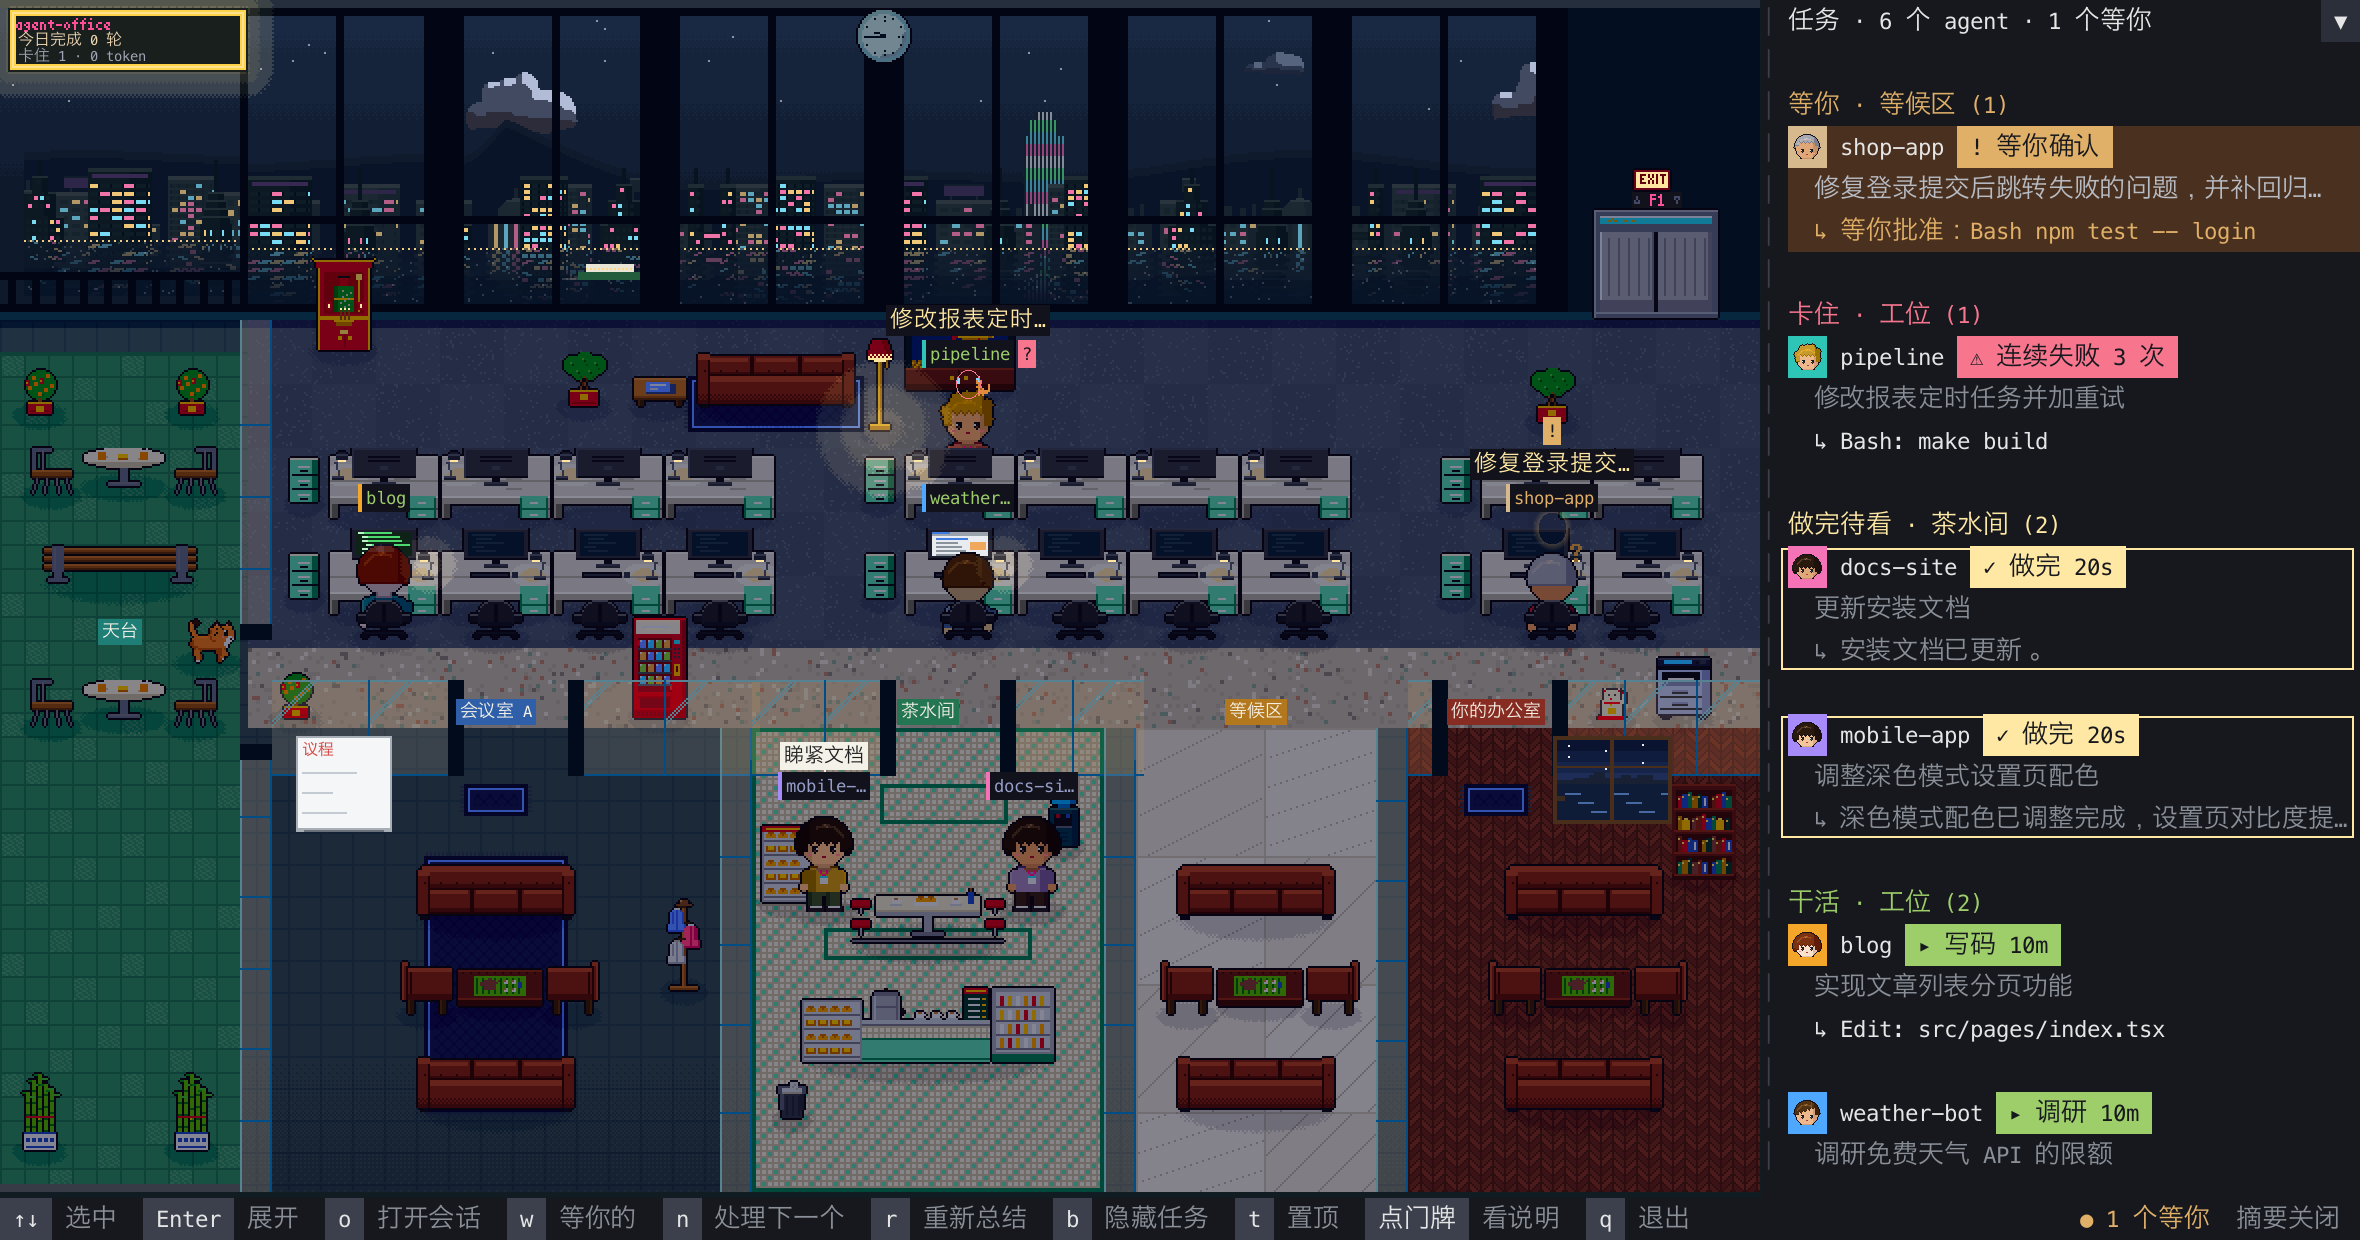
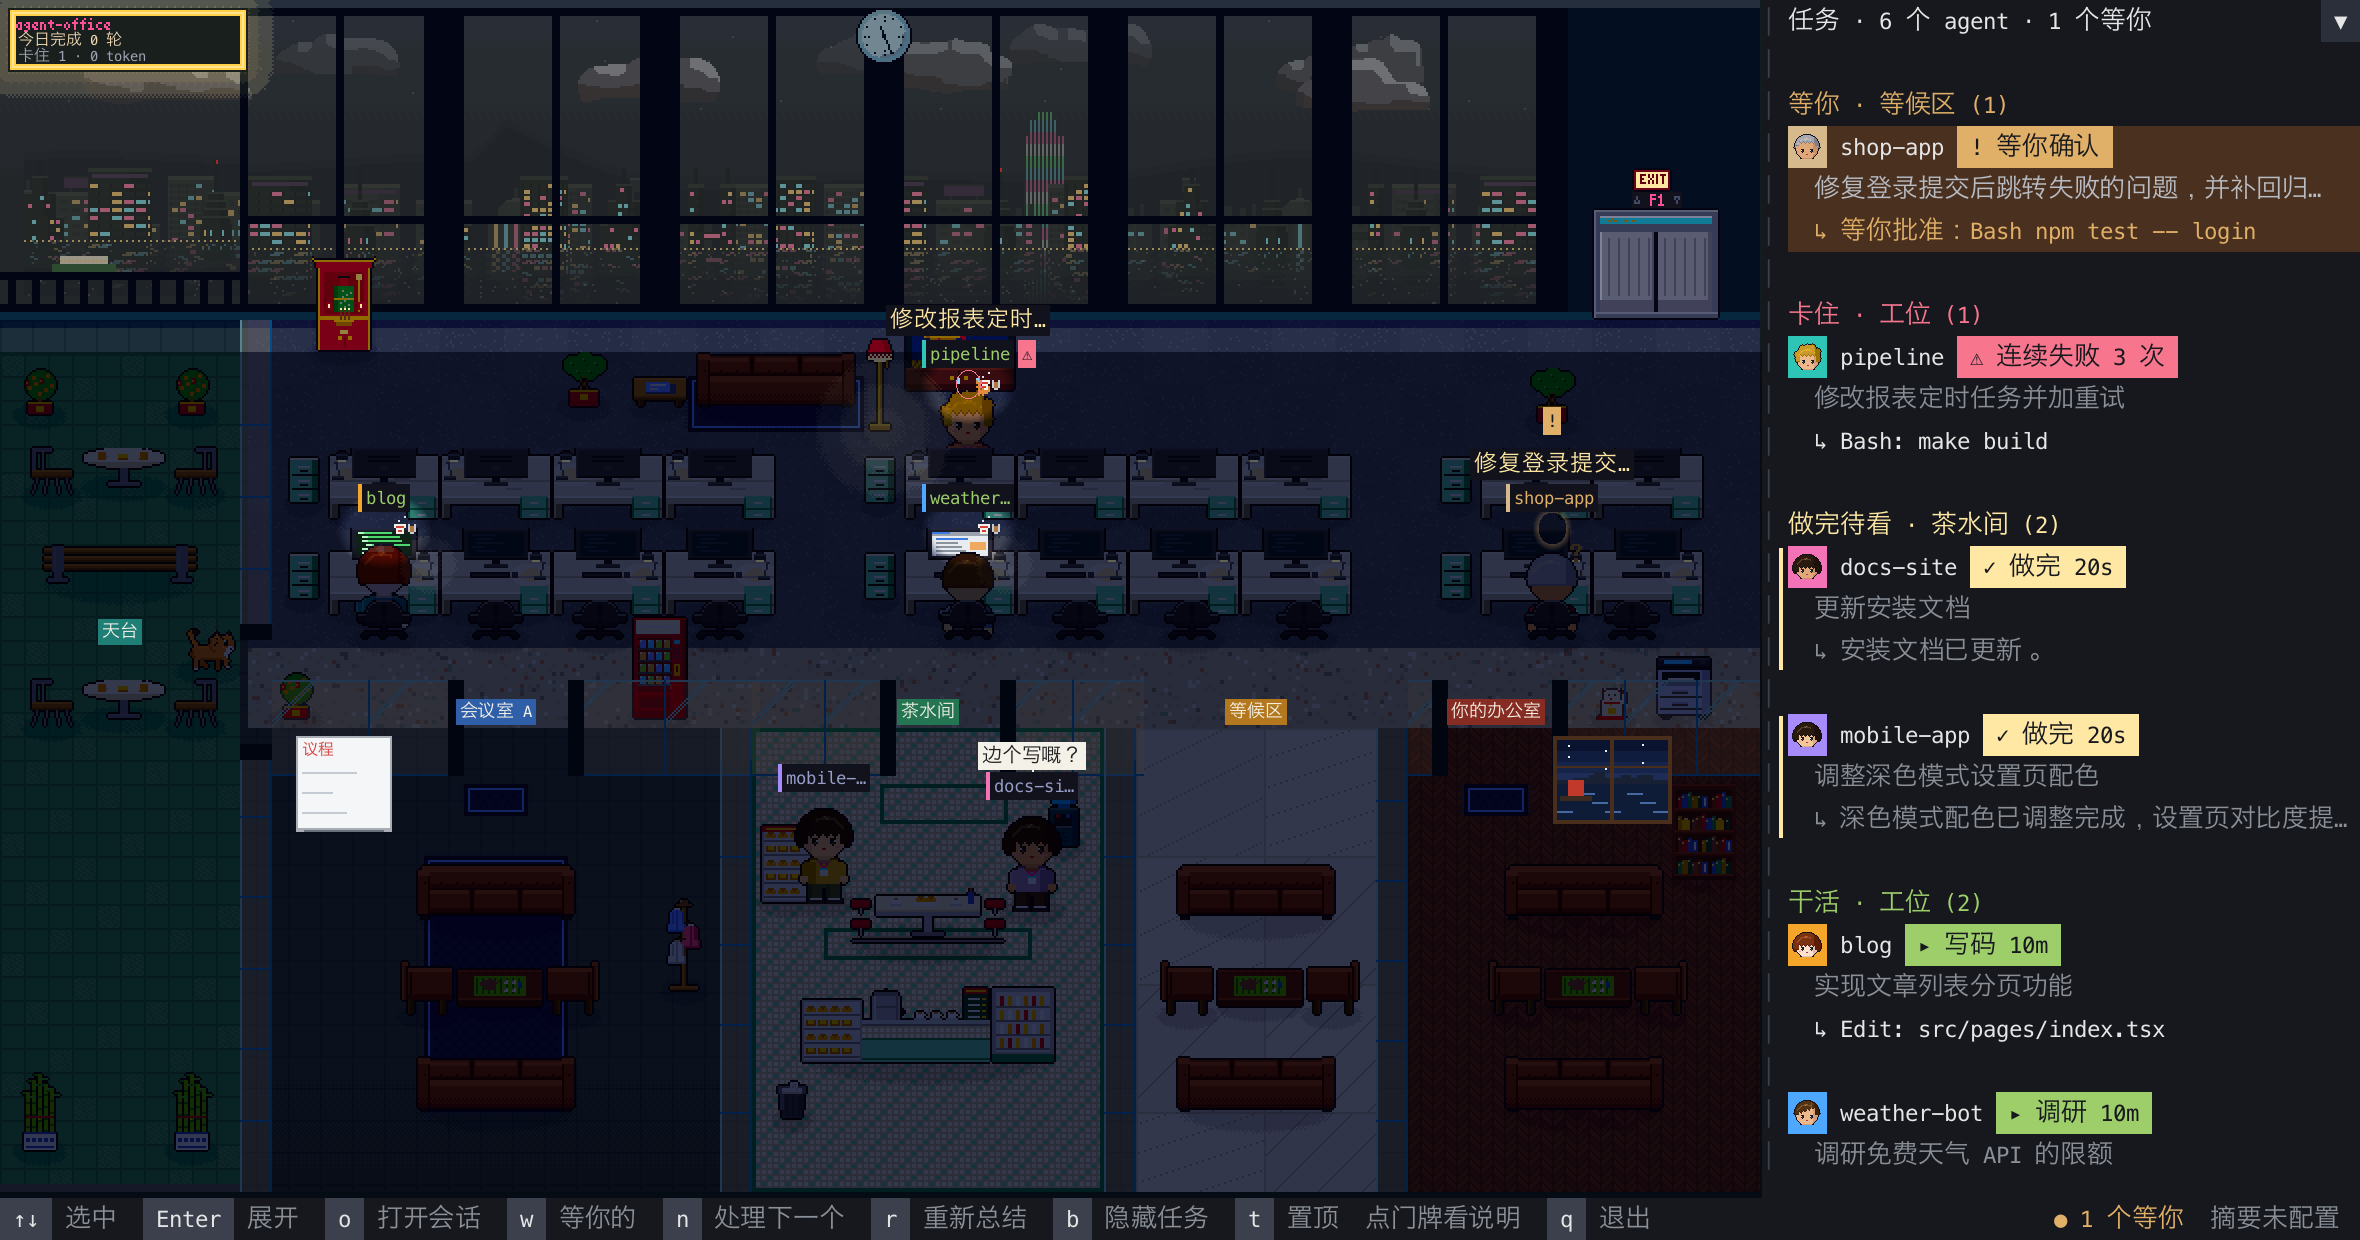
feat: one stuck mark, a side bar for unread done cards, plain words for pointer hints
- office marks a stuck agent with the panel's ⚠, not a ? that read as waiting
- unread done cards get a bar on the left instead of a box that read as selected
- footer: 点门牌看说明 is no longer on a keycap; 摘要关闭 → 摘要未配置
- README screenshot retaken from demo sessions

diff --git a/src/floating/mod.rs b/src/floating/mod.rs
@@ -762,7 +762,7 @@ impl Win {
         );
         canvas.fill(i64::from(panel_x), 0, w.get() - panel_x, h.get(), PANEL_BG);
         paint_cells(&mut canvas, &mut self.faces, &cells, (panel_x, 0), g);
-        paint_outlines(&mut canvas, &drawn.outlines, (panel_x, cols), g, sf);
+        paint_done_bars(&mut canvas, &drawn.outlines, panel_x, g, sf);
         let at = Instant::now();
         self.portraits.retain(|id, (_, made)| {
             at.duration_since(*made) < PORTRAIT_FOR && frame.scene.agents.contains_key(id)
@@ -800,7 +800,7 @@ impl Win {
                         "置顶"
                     },
                 ),
-                ("点门牌", "看说明"),
+                ("", "点门牌看说明"),
             ],
         );
         canvas.fill(0, i64::from(oh), w.get(), h.get() - oh, PANEL_BG);
@@ -1430,32 +1430,22 @@ fn paint_cells(
     }
 }
 
-/// Ink of the outline round a card done and waiting to be read: the panel's
-/// colour for that group.
-const DONE_OUTLINE: u32 = 0x00ff_e8a3;
+/// Ink of the bar by a card done and waiting to be read: the panel's colour
+/// for that group.
+const DONE_BAR: u32 = 0x00ff_e8a3;
 
-/// An outline round each card in `outlines` (its first and last panel rows),
-/// across the panel of `cols` cells at `panel_x`.
-fn paint_outlines(
-    canvas: &mut Canvas,
-    outlines: &[(u16, u16)],
-    (panel_x, cols): (u32, u16),
-    g: Grid,
-    sf: f64,
-) {
+/// A bar down the left of each card in `outlines` (its first and last panel
+/// rows), in the gap between the panel's edge and its text. A box round
+/// each read as the card being selected, and two at once as two selected.
+fn paint_done_bars(canvas: &mut Canvas, outlines: &[(u16, u16)], panel_x: u32, g: Grid, sf: f64) {
     let t = (sf.round() as u32).max(1);
-    // Half a cell in from the panel's text on each side.
-    let x0 = i64::from(panel_x + g.cell_w * 3 / 2);
-    let x1 = i64::from(panel_x + u32::from(cols) * g.cell_w - g.cell_w / 2);
-    let w = u32::try_from(x1 - x0).unwrap_or(0);
+    let w = (2 * t).max(g.cell_w / 3);
+    // Centred in the cell before the text, clear of the panel's border.
+    let x = i64::from(panel_x + g.cell_w + (g.cell_w - w) / 2);
     for &(top, bottom) in outlines {
         let y0 = i64::from(u32::from(top) * g.row_h + t);
         let y1 = i64::from((u32::from(bottom) + 1) * g.row_h - t);
-        let h = u32::try_from(y1 - y0).unwrap_or(0);
-        canvas.fill(x0, y0, w, t, DONE_OUTLINE);
-        canvas.fill(x0, y1 - i64::from(t), w, t, DONE_OUTLINE);
-        canvas.fill(x0, y0, t, h, DONE_OUTLINE);
-        canvas.fill(x1 - i64::from(t), y0, t, h, DONE_OUTLINE);
+        canvas.fill(x, y0, w, u32::try_from(y1 - y0).unwrap_or(0), DONE_BAR);
     }
 }
 
@@ -2067,8 +2057,9 @@ const SIGN_PT: f64 = 9.0;
 const STUCK_RED: u32 = 0x00f7_768e;
 
 /// Mark each stuck agent in `stuck` where it sits: a red ring round its
-/// figure and a red "?" by its badge, so it stands out from the agents
-/// working normally around it. `u` is window pixels an art pixel.
+/// figure and the panel's stuck mark by its badge, so it stands out from the
+/// agents working normally around it. Not a "?": that read as a question for
+/// you, which is what waiting means. `u` is window pixels an art pixel.
 fn paint_stuck(
     canvas: &mut Canvas,
     faces: &mut Faces,
@@ -2096,7 +2087,14 @@ fn paint_stuck(
         let base = y + i64::from(pad) + i64::from(faces.ascent(name_px));
         // Dark on the red, as the panel's stuck chip is: white on it read
         // at 2:1.
-        faces.draw(canvas, x + i64::from(pad), base, "?", PANEL_BG, name_px);
+        faces.draw(
+            canvas,
+            x + i64::from(pad),
+            base,
+            crate::panel::STUCK_MARK,
+            PANEL_BG,
+            name_px,
+        );
     }
 }
 
@@ -2236,6 +2234,41 @@ fn paint_tags(
 #[cfg(test)]
 mod tests {
     use super::*;
+
+    /// A box round each unread done card read as the card being selected,
+    /// two at once as two selected. Its mark is a bar in the gap left of the
+    /// text: nothing across the card, nothing over the panel's border.
+    #[test]
+    fn an_unread_done_card_gets_a_side_bar_not_a_box() {
+        let g = Grid {
+            px: 13,
+            cell_w: 8,
+            row_h: 18,
+        };
+        let panel_x = 100;
+        let mut canvas = Canvas::new(400, 200, 0);
+        paint_done_bars(&mut canvas, &[(2, 4)], panel_x, g, 1.0);
+        let inked: Vec<(u32, u32)> = (0..canvas.h)
+            .flat_map(|y| (0..canvas.w).map(move |x| (x, y)))
+            .filter(|&(x, y)| canvas.px[(y * canvas.w + x) as usize] == DONE_BAR)
+            .collect();
+        assert!(!inked.is_empty(), "the card is marked");
+        let (x0, x1) = (panel_x + g.cell_w, panel_x + 2 * g.cell_w);
+        assert!(
+            inked.iter().all(|&(x, _)| (x0..x1).contains(&x)),
+            "only in the cell before the text"
+        );
+        let (top, bottom) = (2 * g.row_h, 5 * g.row_h);
+        assert!(inked.iter().all(|&(_, y)| (top..bottom).contains(&y)));
+        assert!(
+            inked.iter().any(|&(_, y)| y < top + g.row_h),
+            "from its first row"
+        );
+        assert!(
+            inked.iter().any(|&(_, y)| y >= bottom - g.row_h),
+            "to its last"
+        );
+    }
 
     /// A badge past the crowd's cut keeps a short name, not a dot: a dot
     /// told no one which session sat there. Its namesake number stays, or

diff --git a/src/core.rs b/src/core.rs
@@ -279,7 +279,8 @@ impl Core {
         let summary_note = match &summarizer {
             // The model's name is long and `doctor` already shows it.
             Some(_) => "摘要 ✓".to_owned(),
-            None => "摘要关闭".to_owned(),
+            // Not switched off: no AGENT_OFFICE_API_* to summarize with.
+            None => "摘要未配置".to_owned(),
         };
         let socket = crate::hook::socket_path();
         let (pipe, views_rx, force_tx, outlook_rx) = rt.block_on(async {
@@ -613,9 +614,8 @@ pub fn footer(
     // Each key on a keycap, its action beside it.
     let cap = key.bg(Color::Rgb(0x3b, 0x40, 0x4c));
     let mut spans = Vec::new();
-    for (k, what, _) in &fit_hints(hints, room) {
-        spans.push(Span::styled(format!(" {k} "), cap));
-        spans.push(Span::styled(format!(" {what}  "), dim));
+    for (k, what, _) in fit_hints(hints, room) {
+        spans.extend(hint_spans(k, what, cap, dim));
     }
     set_hints_and_status(buf, area, &Line::from(spans), &status);
 }
@@ -633,11 +633,27 @@ fn quits(armed: &mut Option<Instant>, now: Instant) -> bool {
     false
 }
 
+/// One hint as drawn: the key on a keycap, its action beside it. A hint
+/// with no key is a pointer gesture told in words: on a keycap it read as
+/// a key to press.
+fn hint_spans(k: &str, what: &str, cap: Style, dim: Style) -> Vec<Span<'static>> {
+    if k.is_empty() {
+        return vec![Span::styled(format!("{what}  "), dim)];
+    }
+    vec![
+        Span::styled(format!(" {k} "), cap),
+        Span::styled(format!(" {what}  "), dim),
+    ]
+}
+
 /// The key hints (key, what it does, rank) that fit `room` cells, in their
 /// order: the highest rank, the least needed, left out first, each whole.
 fn fit_hints<'a>(mut hints: Vec<(&'a str, &'a str, u8)>, room: u16) -> Vec<(&'a str, &'a str, u8)> {
-    let width = |(k, what, _): &(&str, &str, u8)| {
-        crate::text::cells(&format!(" {k} ")) + crate::text::cells(&format!(" {what}  "))
+    let width = |&(k, what, _): &(&str, &str, u8)| {
+        hint_spans(k, what, Style::default(), Style::default())
+            .iter()
+            .map(|s| crate::text::cells(&s.content))
+            .sum::<u16>()
     };
     while hints.iter().map(width).sum::<u16>() > room {
         let Some(worst) = hints
@@ -717,6 +733,22 @@ mod tests {
         let few = fit_hints(hints, 52);
         let keys: Vec<&str> = few.iter().map(|h| h.0).collect();
         assert_eq!(keys, ["↑↓", "o", "n", "q"]);
+    }
+
+    /// "点门牌" sat on a keycap like `t` and `q` beside it, so it read as a key
+    /// to press, and pressing it did nothing. A hint with no key is plain
+    /// words, measured as drawn so the row still fits.
+    #[test]
+    fn a_pointer_hint_is_not_drawn_as_a_key() {
+        let cap = Style::default().bg(Color::Rgb(1, 2, 3));
+        let spans = hint_spans("", "点门牌看说明", cap, Style::default());
+        assert!(spans.iter().all(|s| s.style.bg != cap.bg), "no keycap");
+        assert_eq!(spans[0].content, "点门牌看说明  ");
+        let keyed = hint_spans("t", "置顶", cap, Style::default());
+        assert_eq!(keyed[0].style.bg, cap.bg, "a real key keeps its cap");
+        let w = crate::text::cells("点门牌看说明  ");
+        assert_eq!(fit_hints(vec![("", "点门牌看说明", 8)], w).len(), 1);
+        assert!(fit_hints(vec![("", "点门牌看说明", 8)], w - 1).is_empty());
     }
 
     /// One stray `q` closed a window kept up all day; it takes a second one

diff --git a/src/panel.rs b/src/panel.rs
@@ -322,7 +322,7 @@ fn status(
     }
     // Waiting on the user says what to do; a stuck verdict is for one working.
     if let Some(s) = crate::tasks::stuck_at_work(slot, view) {
-        return (format!("⚠ {}", s.describe()), STUCK);
+        return (format!("{STUCK_MARK} {}", s.describe()), STUCK);
     }
     match &slot.state {
         ActivityState::RequiresAction { .. } => ("! 等你确认".into(), WAIT),
@@ -446,6 +446,10 @@ fn wrap(text: &str, w: u16) -> Vec<String> {
     out
 }
 
+/// What a stuck agent is marked with, on its chip and by its badge in the
+/// office alike, so the two read as one state.
+pub const STUCK_MARK: &str = "⚠";
+
 struct Card {
     id: AgentId,
     lines: Vec<Line<'static>>,
@@ -468,7 +472,7 @@ pub struct Drawn {
     /// Each drawn avatar: its row and first cell, whose head it shows, and
     /// whether its card is faded.
     pub avatars: Vec<(u16, u16, AgentId, bool)>,
-    /// The rows (first, last) of each card drawn in outline: done, waiting
+    /// The rows (first, last) of each card marked with a bar: done, waiting
     /// for you to read it.
     pub outlines: Vec<(u16, u16)>,
 }
